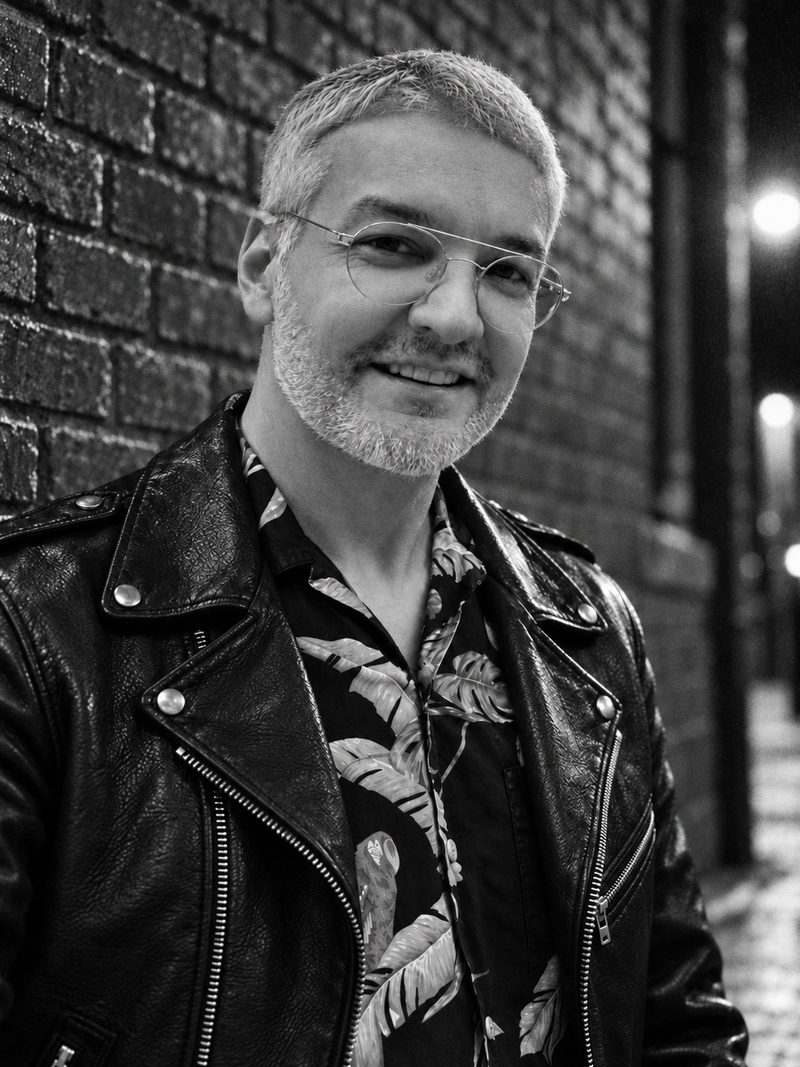
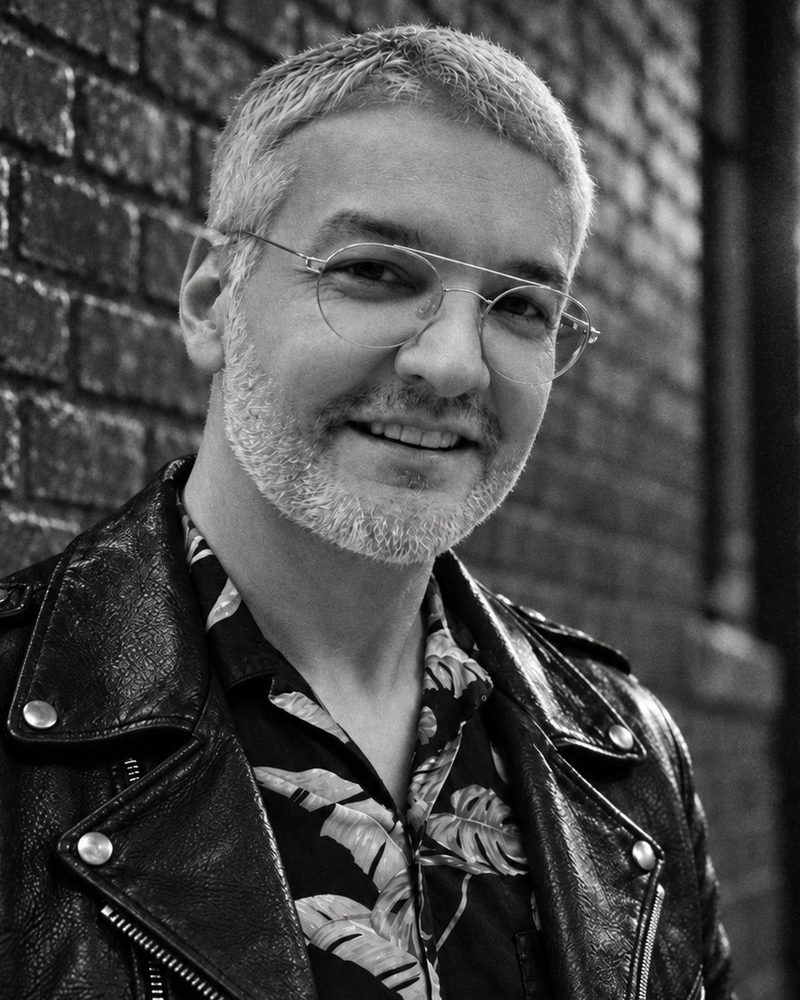
Tighter crop of author photo

diff --git a/site/pt-br/index.html b/site/pt-br/index.html
@@ -69,7 +69,7 @@
     <div class="wrap">
       <h2>Sobre o autor</h2>
       <div class="author">
-        <div class="photo taped"><img src="/assets/img/francesco-durazzo.jpg" alt="Francesco Durazzo" width="800" height="1067"></div>
+        <div class="photo taped"><img src="/assets/img/francesco-durazzo.jpg" alt="Francesco Durazzo" width="800" height="1000"></div>
         <div>
           <p>Francesco Durazzo é um jornalista nascido em São Paulo no fim dos anos 70. Em 1994, tinha mais ou menos a idade da protagonista e frequentava os mesmos lugares que os personagens de seu primeiro romance. Foi uma figura razoavelmente ativa na cena underground da época, como editor de fanzine, gestor de um coletivo de escritores e redator para todo tipo de publicação. Pouco depois dessa época, mudou-se para os Estados Unidos e, mais tarde, para o Reino Unido. Por isso, o romance é tanto um exercício de nostalgia quanto a construção de um mistério. Ele mora em Londres com a esposa e dois gatos.</p>
         </div>

diff --git a/site/it/index.html b/site/it/index.html
@@ -69,7 +69,7 @@
     <div class="wrap">
       <h2>L'autore</h2>
       <div class="author">
-        <div class="photo taped"><img src="/assets/img/francesco-durazzo.jpg" alt="Francesco Durazzo" width="800" height="1067"></div>
+        <div class="photo taped"><img src="/assets/img/francesco-durazzo.jpg" alt="Francesco Durazzo" width="800" height="1000"></div>
         <div>
           <p>Francesco Durazzo è giornalista e tecnologo. Nato a São Paulo alla fine degli anni '70, nel 1994 aveva più o meno l'età della protagonista del suo primo romanzo e frequentava gli stessi posti dei personaggi. È stato una figura piuttosto attiva in quella scena underground, come editore di fanzine, organizzatore di un collettivo di scrittori e autore di testi per ogni genere di pubblicazione. Poco dopo quel periodo si è trasferito negli Stati Uniti, poi nel Regno Unito. Il romanzo è tanto un esercizio di nostalgia quanto la costruzione di un mistero. Vive a Londra con la moglie e due gatti.</p>
         </div>

diff --git a/site/en/index.html b/site/en/index.html
@@ -69,7 +69,7 @@
     <div class="wrap">
       <h2>About the author</h2>
       <div class="author">
-        <div class="photo taped"><img src="/assets/img/francesco-durazzo.jpg" alt="Francesco Durazzo" width="800" height="1067"></div>
+        <div class="photo taped"><img src="/assets/img/francesco-durazzo.jpg" alt="Francesco Durazzo" width="800" height="1000"></div>
         <div>
           <p>Francesco Durazzo is a journalist and a technologist. Born in São Paulo in the late 70s, he was about the age of his first novel's protagonist in 1994 and hung out in the same places as its characters. He was a fairly active figure in that underground scene, as a fanzine editor, the organizer of a writers' collective and a writer for all sorts of publications. Shortly after that period, he moved to the United States, then to the United Kingdom. The novel is as much an exercise in nostalgia as it is the building of a mystery. He lives in London with his wife and two cats.</p>
         </div>
